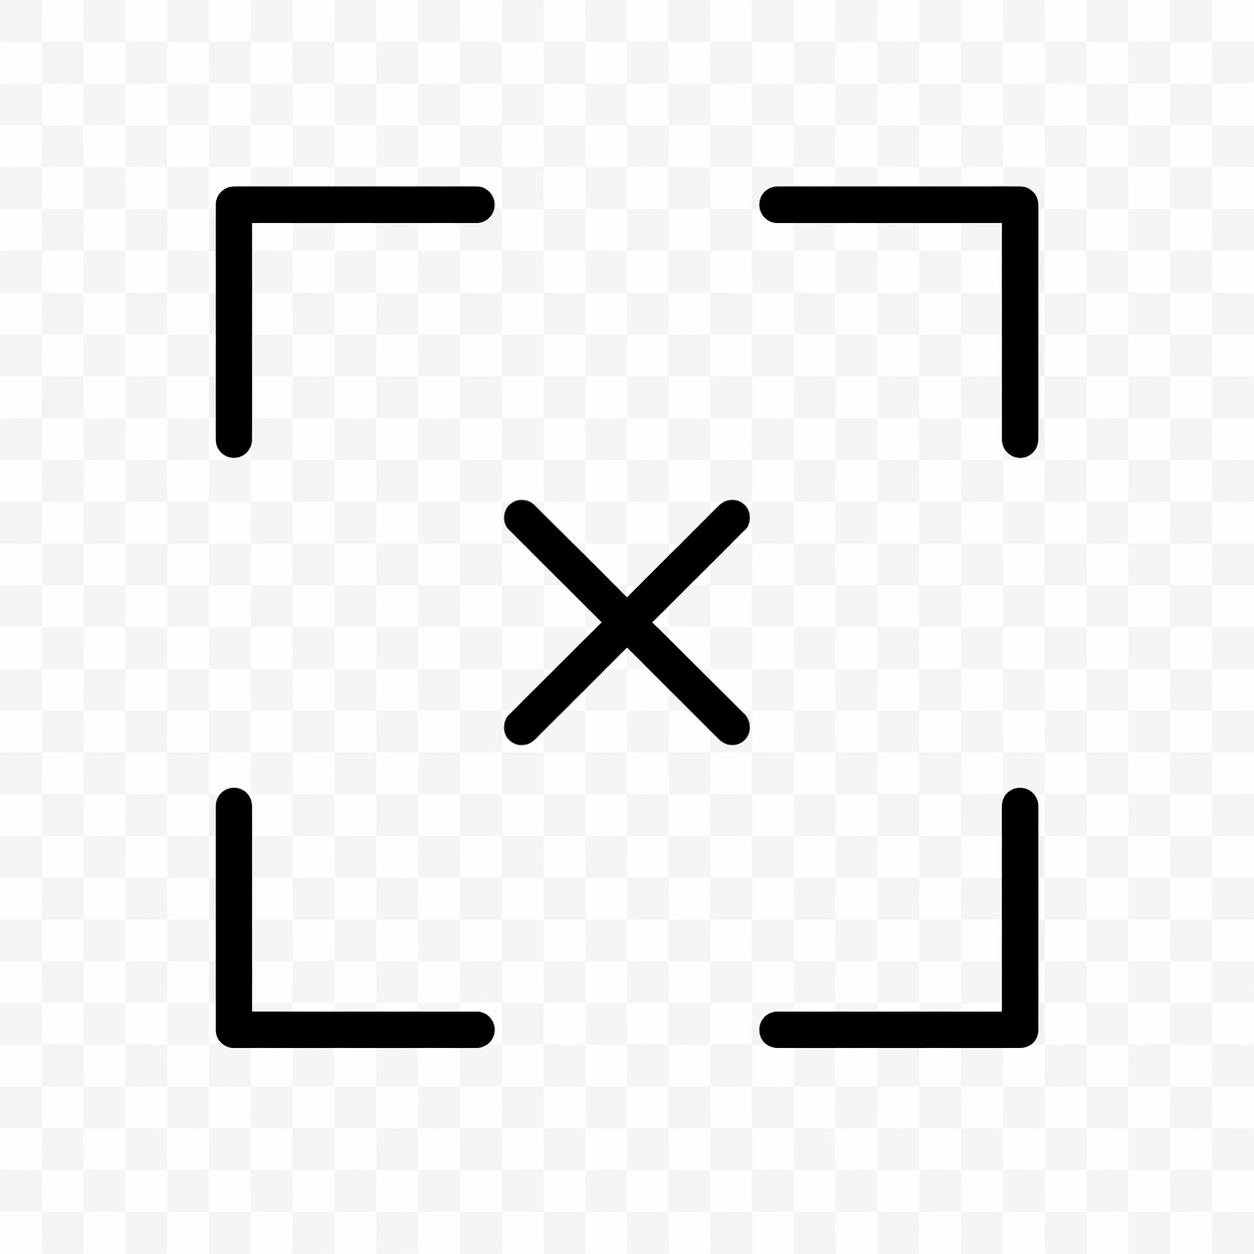
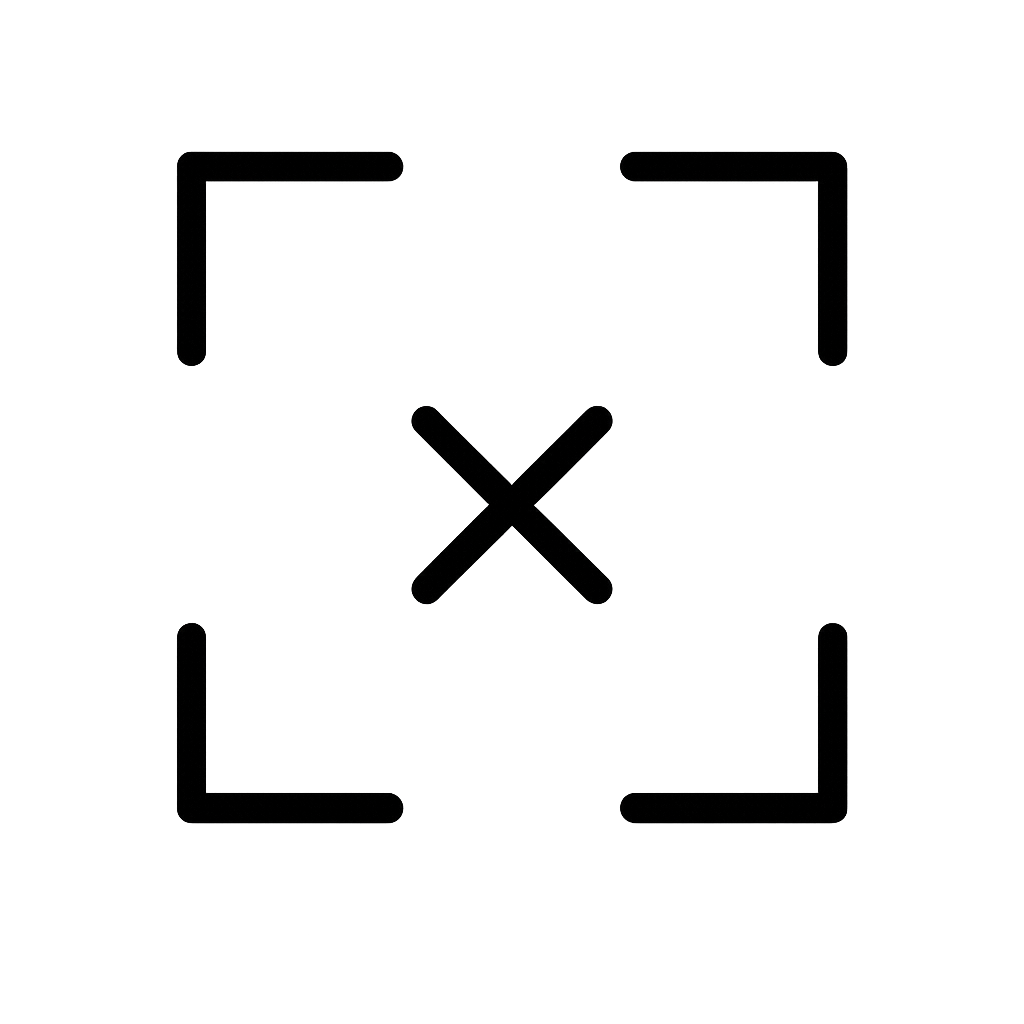
removed the image background

diff --git a/src/components/TheGarage/TheGarage.jsx b/src/components/TheGarage/TheGarage.jsx
@@ -91,10 +91,10 @@ const GARAGE_STORE = {
   ],
   Decal: [
     {
-      id: 'decal-stock',
-      name: 'Stock Decal',
+      id: 'no-decal',
+      name: 'No Decal',
       cost: 0,
-      image: logo,
+      image: defaultAsset,
       effects: {},
       isStock: true
     },
@@ -156,14 +156,15 @@ const GARAGE_STORE = {
 const STOCK_SETUP = {
   Wheels: 'wheels-stock',
   Wings: 'no-wing',
-  Decal: 'decal-stock',
+  Decal: 'no-decal',
   Colour: 'no-paint'
 }
 
 const STOCK_ITEM_IDS = Object.values(STOCK_SETUP)
 const LEGACY_ITEM_IDS = {
   'wing-stock': 'no-wing',
-  'colour-stock': 'no-paint'
+  'colour-stock': 'no-paint',
+  'decal-stock': 'no-decal'
 }
 
 const PURCHASES_KEY = 'garagePurchases'